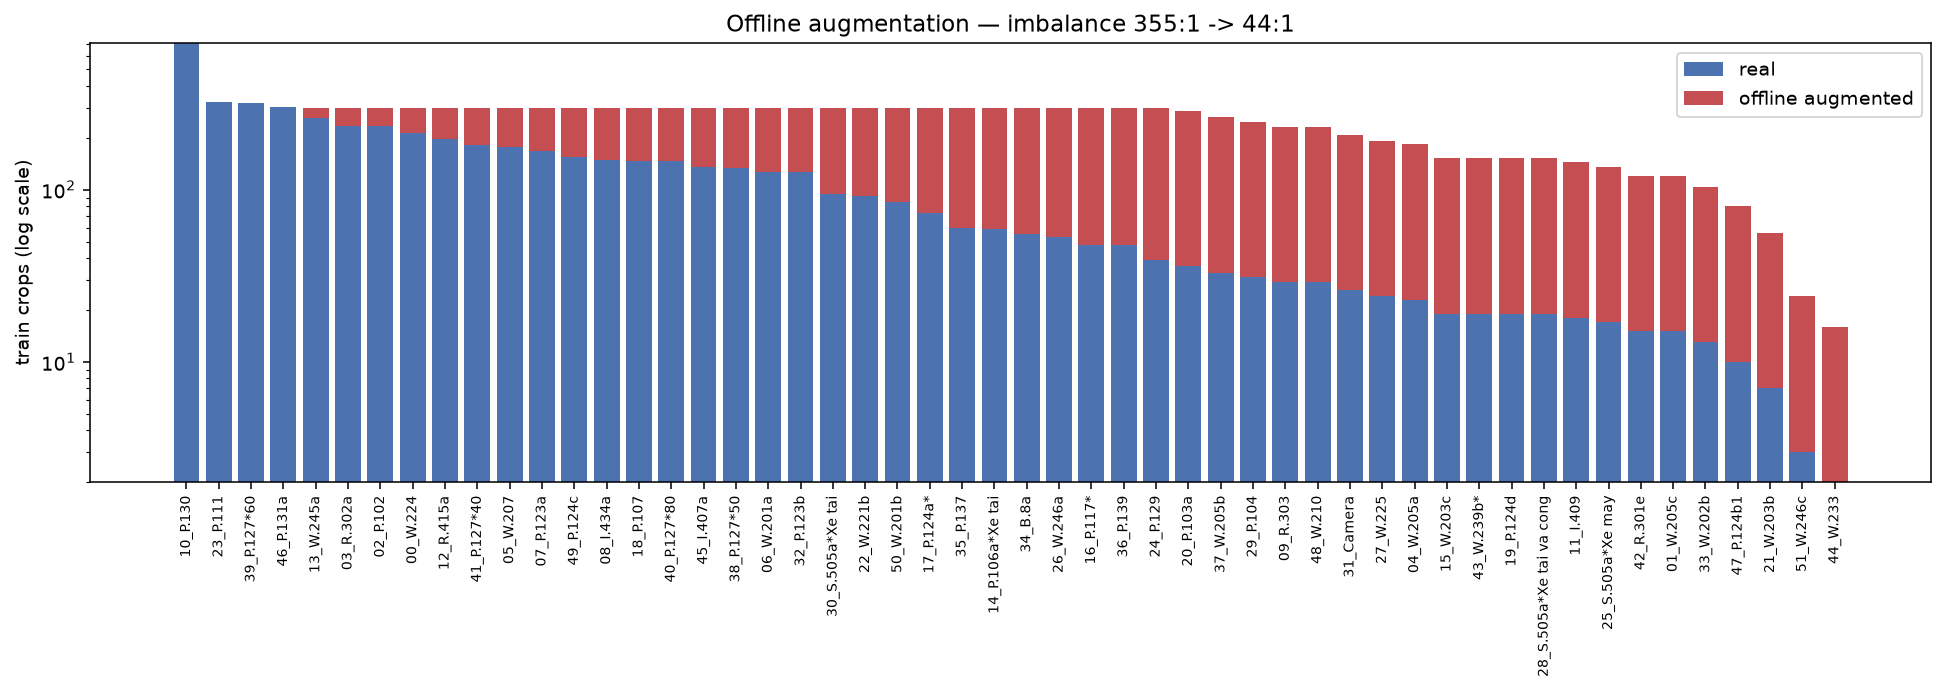
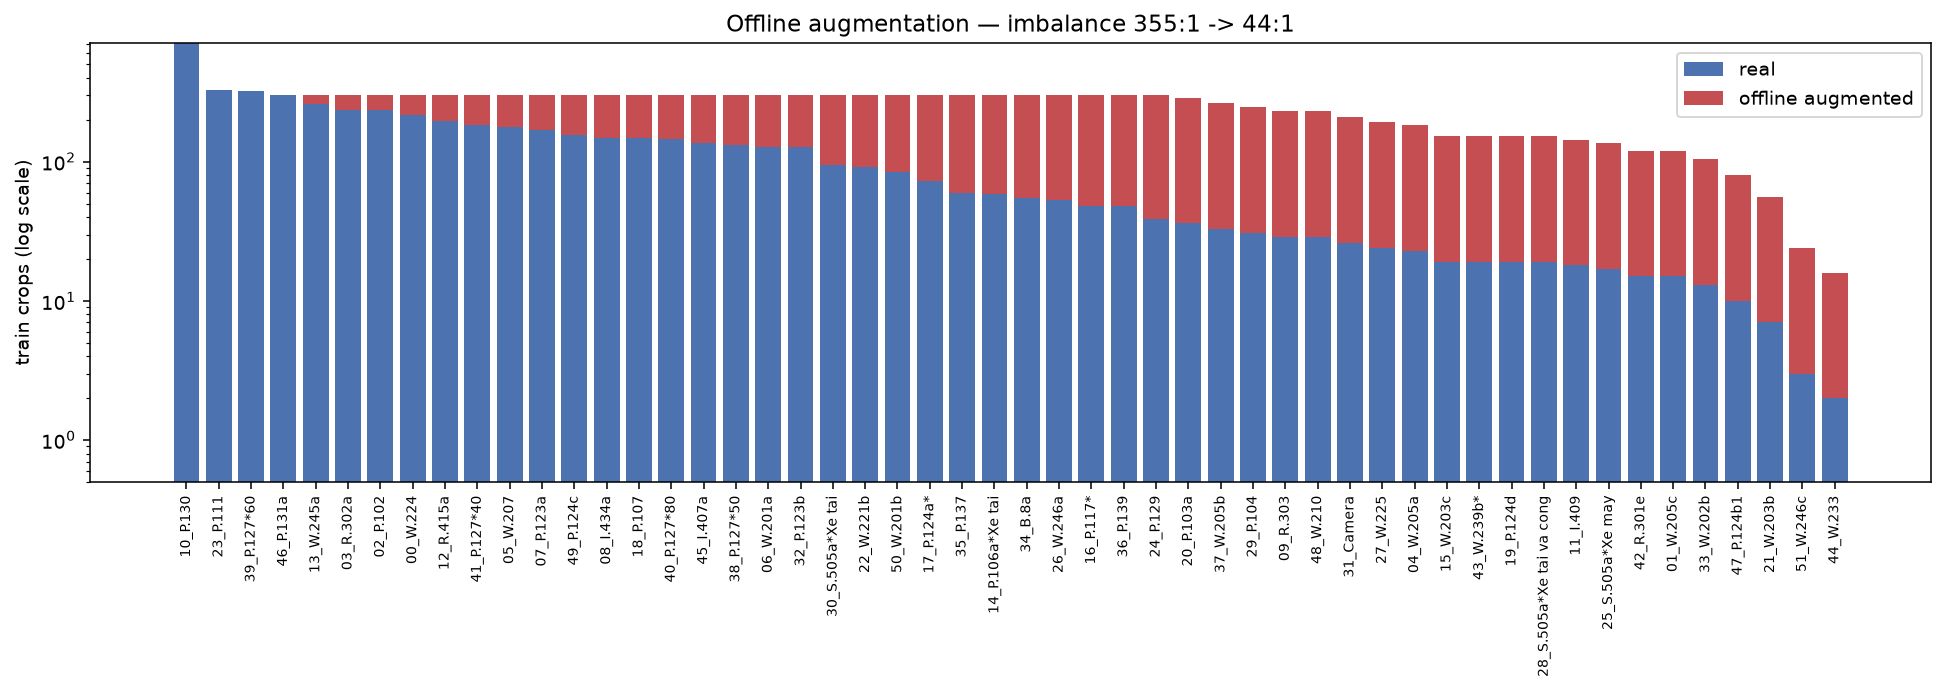
Update padding strategy to use constant fill for crops and rotations

Changed region(s): [[0.0925, 0.1216, 0.9563, 0.699]]

diff --git a/vn_tsc/data/augment.py b/vn_tsc/data/augment.py
@@ -83,12 +83,24 @@ def _affine(img: np.ndarray, rng: np.random.Generator, ops: dict[str, Any]) -> n
     return cv2.warpAffine(img, m, (w, h), flags=cv2.INTER_LINEAR, borderMode=cv2.BORDER_REPLICATE)
 
 
-def rotate_about(img: np.ndarray, center: tuple[float, float], angle: float) -> np.ndarray:
-    """Rotate the full frame about a point, keeping real pixels around it."""
+def rotate_about(
+    img: np.ndarray,
+    center: tuple[float, float],
+    angle: float,
+    pad_value: int = 114,
+    pad_mode: str = "constant",
+) -> np.ndarray:
+    """Rotate the full frame about a point, keeping real pixels around it.
+
+    Corners exposed by the rotation are filled the same way crop_box fills an
+    out-of-frame margin, so a border sign never mixes two padding styles.
+    """
     h, w = img.shape[:2]
     m = cv2.getRotationMatrix2D(center, angle, 1.0)
+    border = cv2.BORDER_REPLICATE if pad_mode == "replicate" else cv2.BORDER_CONSTANT
     return cv2.warpAffine(
-        img, m, (w, h), flags=cv2.INTER_LINEAR, borderMode=cv2.BORDER_REPLICATE
+        img, m, (w, h), flags=cv2.INTER_LINEAR, borderMode=border,
+        borderValue=(pad_value, pad_value, pad_value),
     )
 
 
@@ -220,16 +232,22 @@ def augment_from_source(
     rng: np.random.Generator,
     crop_fn: Any,
     ops: dict[str, Any] | None = None,
+    pad_value: int = 114,
+    pad_mode: str = "constant",
 ) -> tuple[np.ndarray, list[str]]:
     """Re-cut a jittered, rotated crop from the full frame, then jitter its look.
 
     `crop_fn(image, geometry) -> letterboxed crop` is injected so this module
-    does not have to know the project's crop settings.
+    does not have to know the project's crop settings; pad_value / pad_mode must
+    match what crop_fn uses.
     """
     ops = {**DEFAULT_OPS, **(ops or {})}
     jittered, angle = jitter_geometry(geom, rng, ops)
     center = ((jittered.x1 + jittered.x2) / 2.0, (jittered.y1 + jittered.y2) / 2.0)
-    rotated = rotate_about(img, center, angle) if abs(angle) > 1e-3 else img
+    rotated = (
+        rotate_about(img, center, angle, pad_value, pad_mode)
+        if abs(angle) > 1e-3 else img
+    )
     out, applied = apply_photometric(crop_fn(rotated, jittered), rng, ops)
     return out, ["window_jitter", "rotate", *applied]
 

diff --git a/analysis/eda.py b/analysis/eda.py
@@ -24,6 +24,11 @@ log = setup_logger("eda")
 
 # Figures label classes by "id_code" rather than the Vietnamese name: the names
 # are long, and a Windows cp1252 console cannot print them at all.
+# Log-scale bars rise from the axis floor, and matplotlib autoscales that floor
+# to the smallest bar. A class with 2 crops then renders at zero height. 0.5
+# keeps counts of 1 visible too (the leakage plot has clusters counted once).
+LOG_FLOOR = 0.5
+
 SPLIT_COLORS = {"train": "#4C72B0", "val": "#DD8452", "test": "#55A868"}
 
 
@@ -49,6 +54,7 @@ def fig_class_distribution(md: pd.DataFrame, table: ClassTable, out_dir: Path) -
         ax.bar(labels, vals, bottom=bottom, label=split, color=SPLIT_COLORS[split])
         bottom += vals
     ax.set_yscale("log")
+    ax.set_ylim(bottom=LOG_FLOOR)
     ax.set_ylabel("crops (log scale)")
     ax.set_title(
         f"Class distribution — {len(order)} classes, "
@@ -73,6 +79,7 @@ def fig_augmentation_effect(md: pd.DataFrame, table: ClassTable, out_dir: Path) 
     ax.bar(labels, before, label="real", color="#4C72B0")
     ax.bar(labels, extra, bottom=before, label="offline augmented", color="#C44E52")
     ax.set_yscale("log")
+    ax.set_ylim(bottom=LOG_FLOOR)
     ax.set_ylabel("train crops (log scale)")
     after = before + extra
     ax.set_title(
@@ -132,6 +139,7 @@ def fig_leakage(report: dict[str, Any], out_dir: Path) -> None:
     sizes = sorted(hist)
     axes[0].bar([str(s) for s in sizes], [hist[s] for s in sizes], color="#4C72B0")
     axes[0].set_yscale("log")
+    axes[0].set_ylim(bottom=LOG_FLOOR)
     axes[0].set_xlabel("frames per near-duplicate cluster")
     axes[0].set_ylabel("clusters (log)")
     axes[0].set_title(

diff --git a/vn_tsc/data/preprocess_offline.py b/vn_tsc/data/preprocess_offline.py
@@ -72,7 +72,7 @@ def run_offline_preprocess(
     margin = float(bbox.get("context_margin", 0.15))
     min_box_px = int(bbox.get("min_box_px", 12))
     pad_value = int(bbox.get("pad_value", 114))
-    pad_mode = str(bbox.get("pad_mode", "replicate"))
+    pad_mode = str(bbox.get("pad_mode", "constant"))
 
     base = find_dataset_root(
         data_root,
@@ -355,7 +355,7 @@ def _render_augmented_from_source(
     bbox = _cfg(cfg, "preprocess", "bbox_crop", default={}) or {}
     margin = float(bbox.get("context_margin", 0.15))
     pad_value = int(bbox.get("pad_value", 114))
-    pad_mode = str(bbox.get("pad_mode", "replicate"))
+    pad_mode = str(bbox.get("pad_mode", "constant"))
 
     def crop_fn(image: np.ndarray, geom) -> np.ndarray:
         return crop_box(image, geom, out_size, margin, pad_value, pad_mode)
@@ -380,7 +380,7 @@ def _render_augmented_from_source(
         for out_i in slots:
             entry = train_entries[order[out_i]]
             crop, applied = augment_from_source(
-                img, entry["geom"], rng, crop_fn, acfg.get("ops")
+                img, entry["geom"], rng, crop_fn, acfg.get("ops"), pad_value, pad_mode
             )
             images[out_i] = crop
             ops_used[out_i] = "+".join(applied)

diff --git a/vn_tsc/data/crops.py b/vn_tsc/data/crops.py
@@ -103,13 +103,15 @@ def crop_box(
     out_size: tuple[int, int],
     context_margin: float = 0.15,
     pad_value: int = 114,
-    pad_mode: str = "replicate",
+    pad_mode: str = "constant",
 ) -> np.ndarray:
     """Cut one sign out of a full frame and letterbox it to out_size.
 
     When the margin pushes the window past the frame edge we pad instead of
     clamping, so the sign stays centred. Clamping would shove signs photographed
     at the image border off-centre and make them look different from the rest.
+    Constant fill is the default: replicate smears the border row outward, and
+    a sign cut by the frame edge then looks stretched into a bar.
     """
     img_h, img_w = img.shape[:2]
     mx = geom.box_w_px * context_margin
@@ -126,7 +128,7 @@ def crop_box(
 
     patch = img[cy1:cy2, cx1:cx2]
     if pad_l or pad_t or pad_r or pad_b:
-        border = PAD_MODES.get(pad_mode, cv2.BORDER_REPLICATE)
+        border = PAD_MODES.get(pad_mode, cv2.BORDER_CONSTANT)
         patch = cv2.copyMakeBorder(
             patch, pad_t, pad_b, pad_l, pad_r, border,
             value=(pad_value, pad_value, pad_value),

diff --git a/tests/test_preprocessing.py b/tests/test_preprocessing.py
@@ -88,10 +88,21 @@ def test_crop_box_keeps_sign_centred_when_margin_leaves_the_frame():
     img = np.zeros((100, 100, 3), np.uint8)
     img[0:20, 0:20] = 255  # sign flush against the top-left corner
     geom = CropGeometry(0, 0, 20, 20, 20, 20, 100, 100)
-    out = crop_box(img, geom, (64, 64), context_margin=0.5, pad_mode="replicate")
+    out = crop_box(img, geom, (64, 64), context_margin=0.5, pad_value=114)
     assert out.shape == (64, 64, 3)
     # With the window centred on the sign, the middle must be sign, not background.
     assert out[32, 32].mean() > 200
+    # The out-of-frame corner must be pad colour. Replicate would have smeared
+    # the white sign into it, stretching the sign toward the corner.
+    assert (out[2, 2] == 114).all()
+
+
+def test_rotation_fills_exposed_corners_with_pad_colour():
+    from vn_tsc.data.augment import rotate_about
+
+    img = np.full((50, 50, 3), 255, np.uint8)
+    out = rotate_about(img, (25, 25), 30, pad_value=114, pad_mode="constant")
+    assert (out[0, 0] == 114).all()
 
 
 def test_box_geometry_matches_pixel_arithmetic():

diff --git a/docs/PREPROCESSING_FINDINGS.md b/docs/PREPROCESSING_FINDINGS.md
@@ -72,6 +72,18 @@ interpolation, so the cache looks sharp but carries no detail the original lacke
 `metadata.csv` keeps `box_area_px` so accuracy can be broken down by real size —
 a far more informative table than one headline number.
 
+## 5b. Border signs: constant padding, not replicate
+
+4.7% of crops (375) have a margin window that leaves the frame; for 224 of them
+the sign itself touches the edge. Those pixels are filled with the pad colour
+(114), the same grey as the letterbox bars. An earlier version used replicate
+padding, which smears the frame's edge row outward: a triangle cut by the border
+grew a horizontal band, a red disc grew a red bar. Padding (rather than clamping)
+is what keeps the sign centred; constant does that without inventing pixels.
+Augmentation rotation fills exposed corners the same way. Aggregate accuracy did
+not move consistently with the switch (1-NN −0.3 pts, LinearSVC +0.3 pts), so this
+is a data-fidelity fix, not a score change.
+
 ## 6. Leakage: real, fixed, and smaller than expected
 
 VNTS frames come from video. Perceptual-hash clustering (dHash, 256-bit,
@@ -88,18 +100,17 @@ held equal, a naive random split scores *no better* than our leakage-free split:
 
 | model | group split (ours) | naive random split | difference |
 |---|---|---|---|
-| 1-NN (pure memorisation) | 97.44% / 96.66 macro-F1 | 96.87% / 96.39 | −0.6 / −0.3 pts |
-| LinearSVC + PCA-256 | 93.98% / 91.90 macro-F1 | 93.90% / 91.13 | −0.1 / −0.8 pts |
+| 1-NN (pure memorisation) | 97.11% / 96.15 macro-F1 | 97.03% / 96.70 | −0.1 / +0.6 pts |
+| LinearSVC + PCA-256 | 94.31% / 93.32 macro-F1 | 92.99% / 90.56 | −1.3 / −2.8 pts |
 
-The naive split is, if anything, marginally *worse* — the differences sit inside
-run-to-run noise. This holds even though in that naive split **79.5% of test crops
+The differences point in both directions and show no consistent inflation. This holds even though in that naive split **79.5% of test crops
 have a crop from the same photo sitting in train**: sibling crops from one street
 photo are usually *different* signs, so they do not help classify one another.
 
 And there is no residual leakage hiding at the sign level: cross-checking every
 test crop against every train crop, only **1 of 1,213 (0.1%)** has a near-identical
-partner in train, and removing it changes 1-NN accuracy by 0.00 points
-(97.44% either way).
+partner in train, and removing it leaves 1-NN accuracy unchanged
+(97.11% either way).
 
 > An earlier comparison appeared to show leakage inflating scores by ~0.5–1.0
 > points, but the naive split there had 6,776 training crops against our 5,564.
@@ -135,8 +146,13 @@ deliberately left out of the store: it is a per-pipeline key in `svm.yaml` and
 ## 8. Baseline, for calibration only
 
 LinearSVC + PCA-256 on the shared features, our split, no tuning:
-**93.98% accuracy, 91.90 macro-F1**. Offline augmentation moved it +0.2 / +0.1 —
-within noise for a linear model, though CNNs typically gain more from augmentation.
+**94.31% accuracy, 93.32 macro-F1** (1-NN: 97.11% / 96.15). An earlier run of the
+store gave offline augmentation +0.2 / +0.1 on this model — within noise for a
+linear model, though CNNs typically gain more from augmentation.
+
+Signs that touch the frame border are much harder: on the 54 test crops whose
+margin window leaves the frame, LinearSVC scores **72.2%** against 95.3% on the
+rest. Worth a line in the error analysis.
 This is a floor for the three real pipelines, not a result to report.
 
 ## 9. Config changes requiring a team vote
